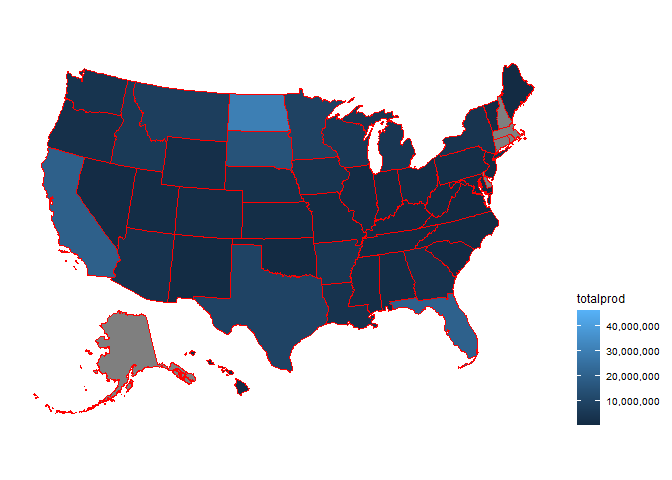
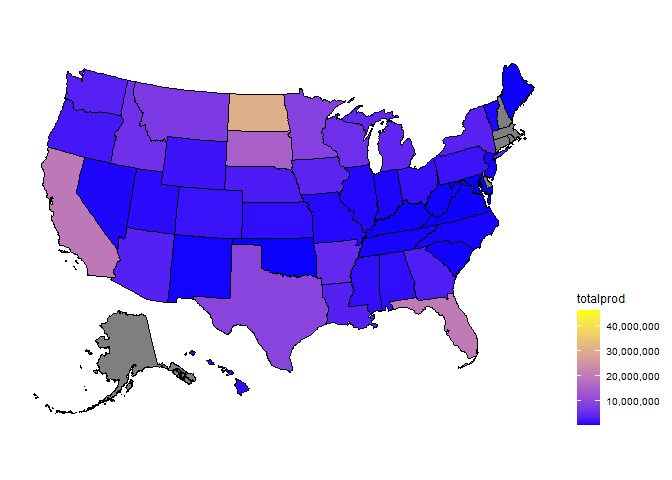
07/12/2022

diff --git a/Data-Practicle.md b/Data-Practicle.md
@@ -18,8 +18,8 @@ library(usmap)
 ``` r
 library(ggplot2)
 honey <- read.csv("honeyproduction.csv")
-plot_usmap(data = honey, values = "totalprod", color = "red") + 
-  scale_fill_continuous(name = "totalprod", label = scales::comma) + 
+plot_usmap(data = honey, values = "totalprod", color = "black") + 
+  scale_fill_continuous(low = "blue", high = "yellow", name = "totalprod", label = scales::comma) + 
   theme(legend.position = "right")
 ```
 
@@ -65,8 +65,7 @@ honey %>% select(year, totalprod) %>%
  scale_x_continuous(breaks = 1998:2012)+
  scale_y_continuous(breaks = seq(from = 70000, to = 110000, by = 5000))+
  labs(y = 'tons', x = '')+
- theme(axis.text.x = element_text(size = 15),
-       axis.text.y = element_text(size = 15),
+ theme(axis.text.x = element_text(angle = 45, vjust = 0.5, hjust=1),
        panel.grid.major.x = element_blank())
 ```
 
@@ -86,8 +85,7 @@ honey %>%
  scale_y_continuous(limits = c(0,NA),
                     labels = scales::percent_format())+
  labs(y = '', x = '')+
- theme(axis.text.x = element_text(size = 15),
-       axis.text.y = element_text(size = 15),
+ theme(axis.text.x = element_text(angle = 45, vjust = 0.5, hjust=1),
        panel.grid.major.x = element_blank())
 ```
 
